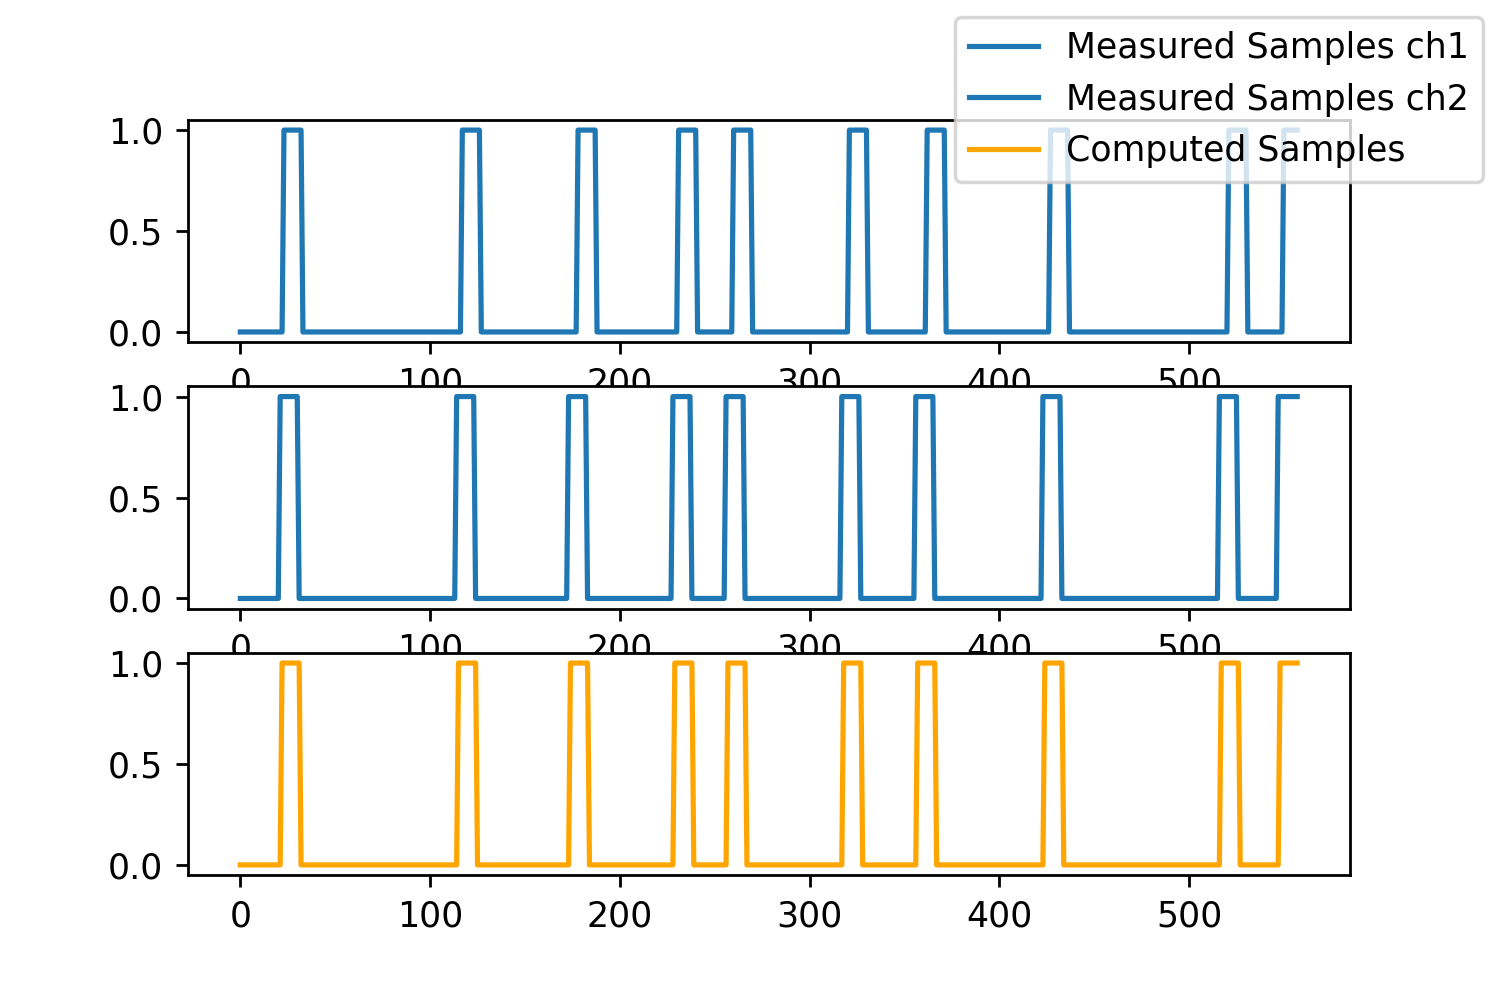
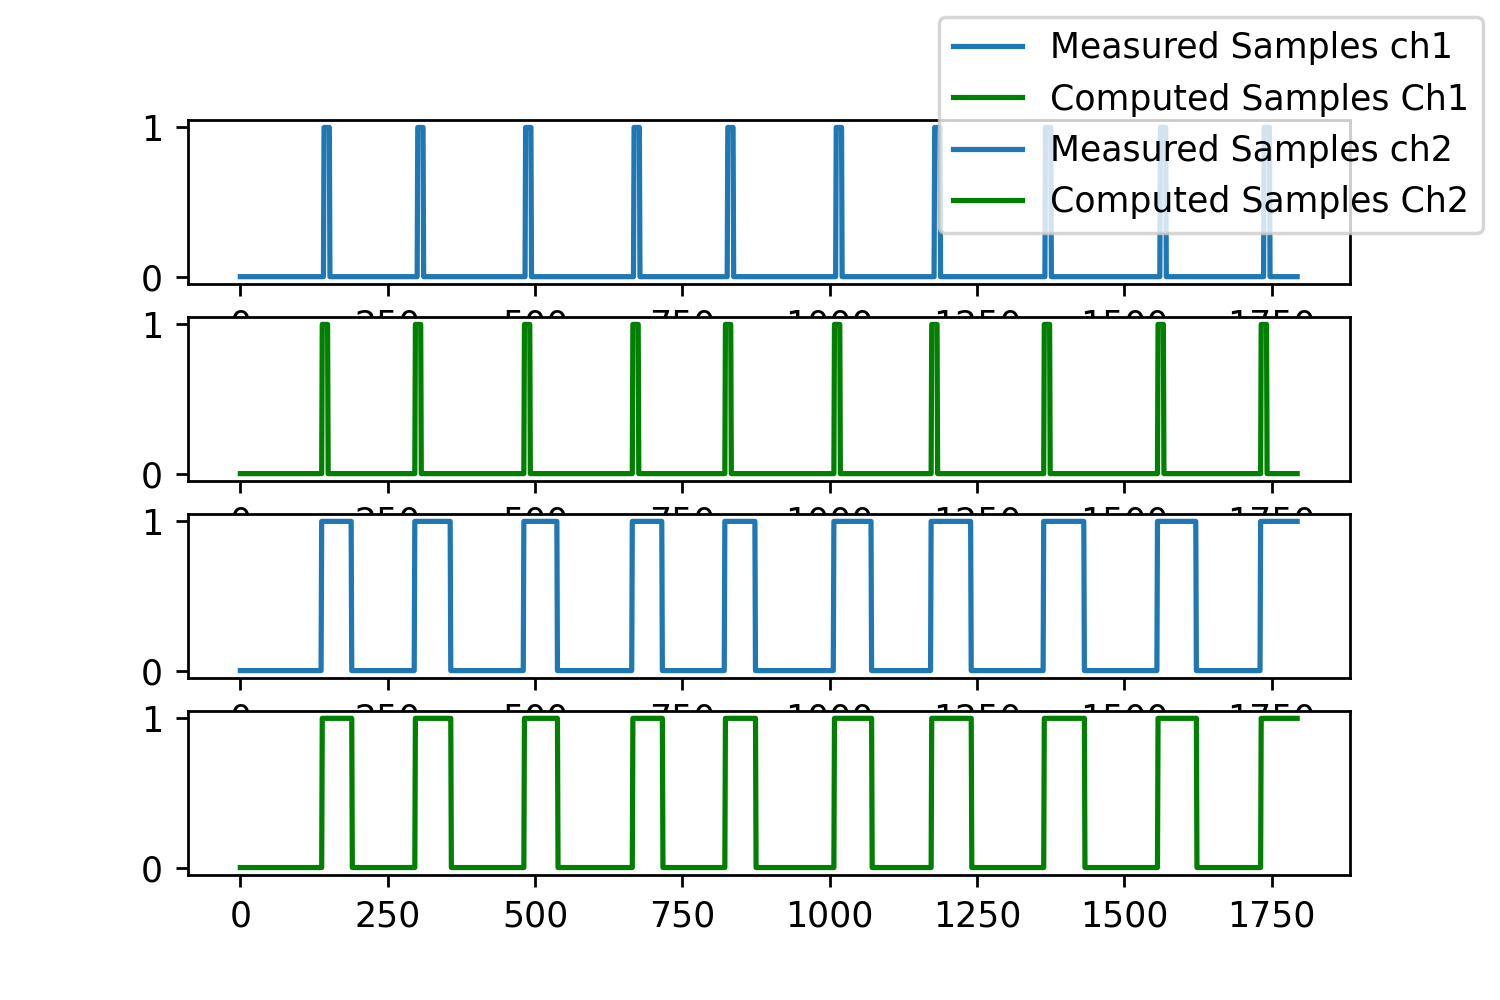
TB_main

diff --git a/TB_main/TB_main.py b/TB_main/TB_main.py
@@ -16,23 +16,25 @@ SIG_PROC_COM_NR = 5
 
 #[ms]
 GENERATOR_PERIOD = 1
+SELECTOR_PULSE_WIDTH = 10
 
 PULSES_NR = 10
 
 #[ms]
 FIRST_PULSE = 10
-PULSE_WIDTH = 10
-PULSE_MIN_PER = 10
-PULSE_MAX_PER = 100
+PULSE_MIN_WIDTH = 50
+PULSE_MAX_WIDTH = 70
+PULSE_MIN_PER = 100
+PULSE_MAX_PER = 150
 
 PULSES_LIST = []
 recent_pulse_end = FIRST_PULSE
 for i in range(PULSES_NR):
     pulse_start = recent_pulse_end + random.randrange(PULSE_MIN_PER, PULSE_MAX_PER, 1)
-    pulse_width = PULSE_WIDTH
+    pulse_width = random.randrange(PULSE_MIN_WIDTH, PULSE_MAX_WIDTH, 1)
     PULSES_LIST.append([pulse_start, pulse_width])
     recent_pulse_end = pulse_start+pulse_width
-SAMPLES_NR = sum(PULSES_LIST[-1])
+SAMPLES_NR = recent_pulse_end
 
 PULSES_STRING = '\n'.join(np.array(PULSES_LIST).flatten().astype(str))
 
@@ -67,19 +69,21 @@ Signal_processing_thread.join()
 samples_received = np.array(samples_received)
 samples_received = samples_received.astype(int) #konwertuje stringi na inty
 
-samples_expected = np.zeros(SAMPLES_NR, dtype=bool)
+samples_expected_ch1 = np.zeros(SAMPLES_NR, dtype=bool)    
+samples_expected_ch2 = np.zeros(SAMPLES_NR, dtype=bool)
 for start, width in PULSES_LIST:
-    samples_expected[start:start+width] = True
+    samples_expected_ch1[start:start+SELECTOR_PULSE_WIDTH] = True
+    samples_expected_ch2[start:start+width] = True    
 
-print(tabulate(zip(samples_received, samples_expected), headers=['samples_received', 'samples_expected']))
+print(tabulate(zip(samples_received, samples_expected_ch2), headers=['samples_received', 'samples_expected']))
 
 shutil.rmtree('Results', ignore_errors=True)
 os.mkdir('Results')
 
-fig, axs = plt.subplots(3)
+fig, axs = plt.subplots(4)
 axs[0].plot(samples_received[:,0], label='Measured Samples ch1')
-axs[1].plot(samples_received[:,1], label='Measured Samples ch2')
-axs[2].plot(samples_expected,'orange', label='Computed Samples')
-# axs[2].plot(Error, 'r', label = 'Error')
+axs[1].plot(samples_expected_ch1,'green', label='Computed Samples Ch1')
+axs[2].plot(samples_received[:,1], label='Measured Samples ch2')
+axs[3].plot(samples_expected_ch2,'green', label='Computed Samples Ch2')
 fig.legend()
 fig.savefig('Results/results', dpi = 250)
